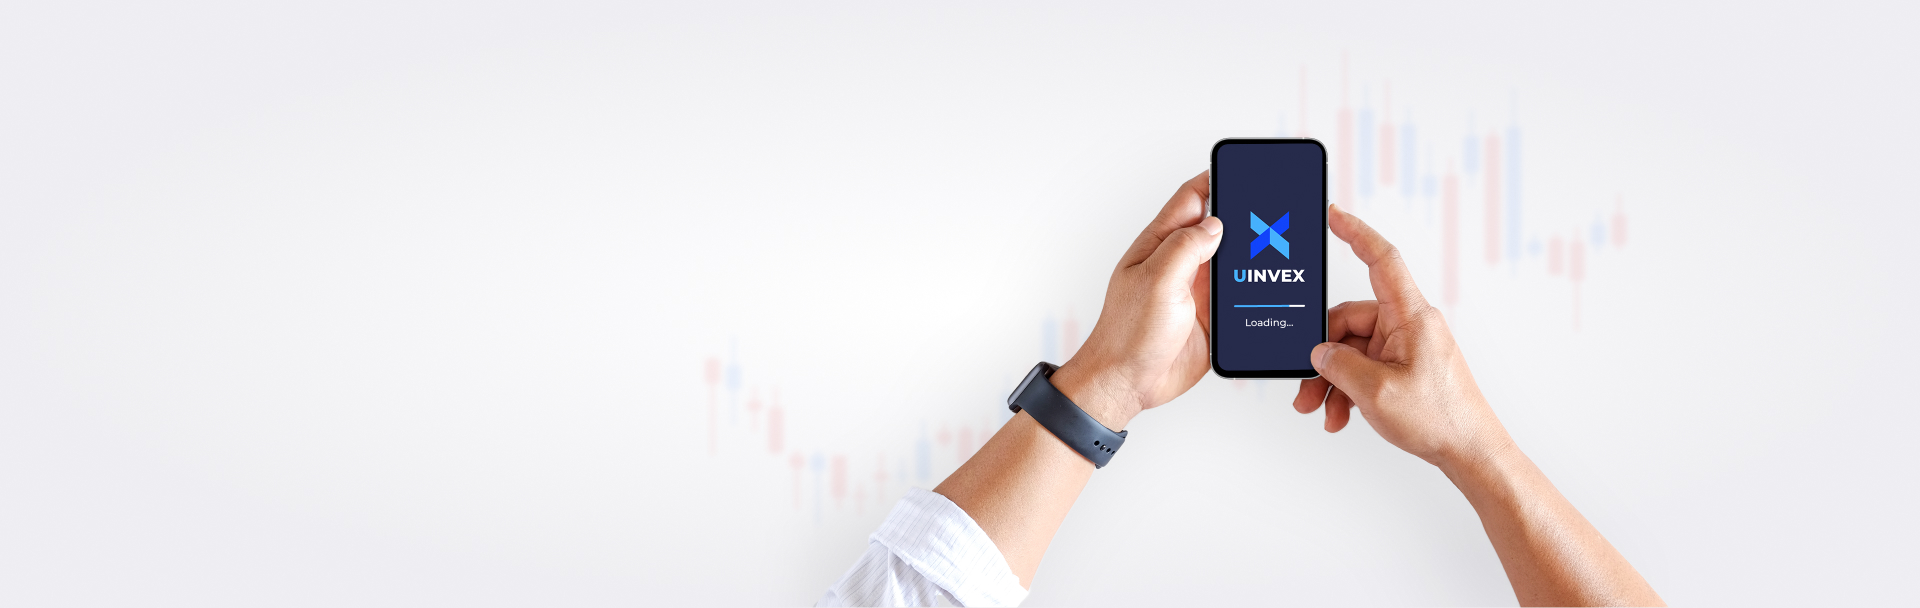
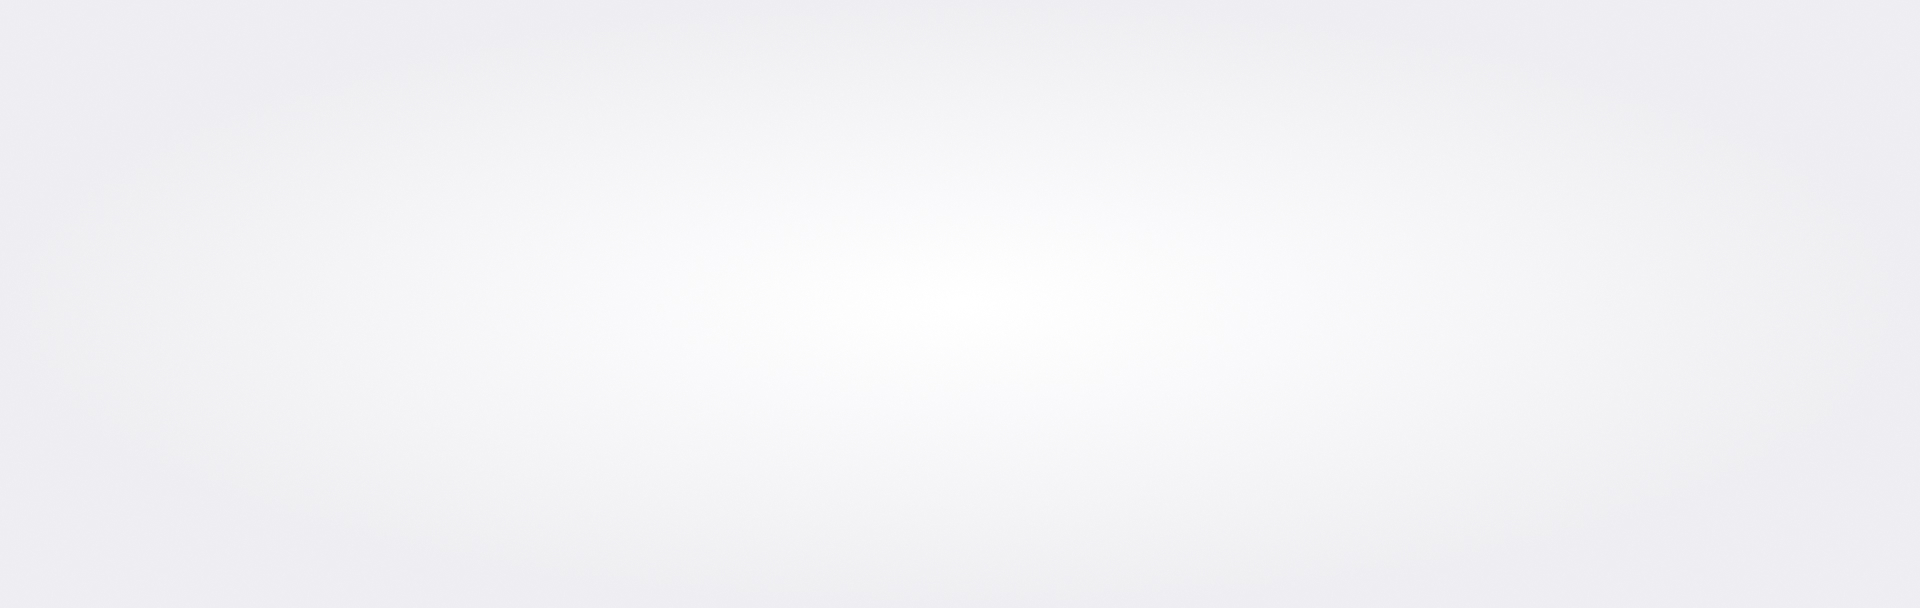
[main] pageTop updates

Changed region(s): [[0.4688, 0.2188, 0.875, 1.0], [0.4375, 0.9062, 0.5, 1.0]]

diff --git a/src/components/pages/main/about/_uinvex/components/pageTopSection/+PageTopSection.scss b/src/components/pages/main/about/_uinvex/components/pageTopSection/+PageTopSection.scss
@@ -11,10 +11,11 @@
       z-index: 1;
     }
 
-    .section-bg {
-      top: 110px;
-      background-position-y: 0 !important;
-      height: 85%;
+    img {
+      position: absolute;
+      left: 40%;
+      bottom: 0;
+      height: 560px;
     }
 
     .page-top {
@@ -47,14 +48,21 @@
     }
 
     @media (max-width: $viewport-lg-w) {
-      padding: 120px 0 0 0 !important;
+      padding: 120px 0 !important;
       align-items: flex-end;
+
+      img {
+        position: absolute;
+        left: 25%;
+        bottom: 0;
+        height: 460px;
+      }
 
       .section-bg {
         // width: 80%;
         height: 90%;
         // background-position-x: -50% !important;
-        top: 70px;
+        // top: 70px;
       }
 
       .page-top {
@@ -86,6 +94,17 @@
     @media (max-width: $viewport-md-w) {
       @include d-flex(start, center, column);
 
+      .container {
+        margin-left: 0;
+      }
+
+      img {
+        position: absolute;
+        left: 15%;
+        bottom: 0;
+        height: 460px;
+      }
+
       .section-bg {
         // width: 80%;
         height: 90%;
@@ -101,13 +120,14 @@
     }
 
     @media (max-width: $viewport-sm-w) {
-      padding: 100px 0 300px 0 !important;
+      padding: 100px 0 0 0 !important;
 
       .page-top {
         background: radial-gradient(50% 50% at 50% 50%, #ffffff 0%, #eeeef1 100%);
         &__title {
           font-size: 32px;
           line-height: 40px;
+          margin-bottom: sp(7) !important;
         }
         &__header {
           padding: 0 20px;
@@ -119,15 +139,59 @@
           max-width: colSizePrc(12);
         }
       }
+
+      img {
+        position: relative;
+        right: 0;
+        left: -40px;
+        // bottom: -110px;
+        top: 50%;
+        width: 100%;
+        height: initial;
+      }
+
       button {
         width: 100%;
       }
+
       .section-bg {
-        top: 90px;
-        left: 0;
+        // top: 90px;
+        // left: 0;
+        // width: 100%;
+        // height: 100%;
+        // background-position-y: 50% !important;
+        background-size: cover !important;
         width: 100%;
         height: 100%;
-        background-position-y: 50% !important;
+
+        position: absolute;
+        left: 0;
+        top: 0;
+        z-index: 0;
+
+        // &:after {
+        //   content: '';
+        //   position: absolute;
+        //   width: 100%;
+        //   height: 100%;
+        //   background: resolve('hands.png') 50% 50% no-repeat;
+        //   bottom: -250px;
+        //   left: 0;
+        // }
+      }
+    }
+
+    @media (max-width: $viewport-xs-w) {
+      padding: 100px 0 300px 0 !important;
+
+      img {
+        position: absolute;
+        right: 0;
+        left: 0;
+        top: unset;
+        bottom: -130px;
+        width: 100%;
+        height: initial;
       }
     }
   }

diff --git a/src/components/pages/main/about/components/pageTopSection/PageTopSection.tsx b/src/components/pages/main/about/components/pageTopSection/PageTopSection.tsx
@@ -1,10 +1,18 @@
 import { Button, Img, LabelView, LocaleLink, SectionBg, Svg } from '@components/shared';
 import { ELabels, EPagePath } from '@domain/enums';
-import { config, locale } from '@pages/main/about';
+import { locale } from '@pages/main/about';
 import React, { memo } from 'react';
-import { useResponsive } from 'ahooks';
+import { configResponsive, useResponsive } from 'ahooks';
 import { useTranslation } from 'react-i18next';
 import './PageTopSection.scss';
+
+configResponsive({
+  xs: 375,
+  sm: 576,
+  md: 768,
+  lg: 992,
+  xl: 1200,
+});
 
 export const PageTopSection = memo(function PageTopSection() {
   const { t } = useTranslation();
@@ -12,7 +20,7 @@ export const PageTopSection = memo(function PageTopSection() {
 
   return (
     <section className="about-wrapper__page-top">
-      {config.pageTopBg(responsive)}
+      <SectionBg img="about-page-top.jpg" />
       <div className="container">
         <div className="row">
           <div className="col-md-8 col-lg-7 page-top__header">
@@ -24,6 +32,11 @@ export const PageTopSection = memo(function PageTopSection() {
           </div>
         </div>
       </div>
+      {responsive.xs ? (
+        <Img src="Who_we_are_Image_Desktop.png" _label={ELabels.uinvex} />
+      ) : (
+        <Img src="hands.png" _label={ELabels.uinvex} />
+      )}
     </section>
   );
 });

diff --git a/src/components/pages/main/about/About.config.tsx b/src/components/pages/main/about/About.config.tsx
@@ -5,7 +5,6 @@ import React from 'react';
 const t = i18n.getLazyT;
 
 export const config = {
-  pageTopBg: (responsive: any) => <SectionBg img="about-page-top.jpg" />,
   tableData: {
     deposit: {
       headers: [t('Method'), t('Minimum'), t('Currency'), t('Processing'), t('Fees')],
